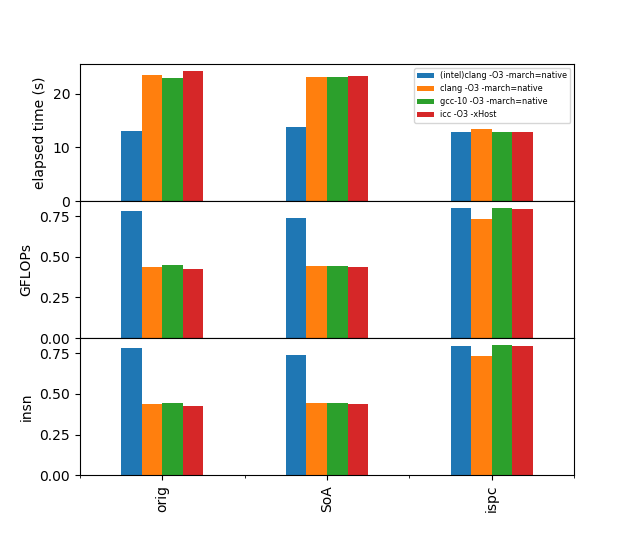
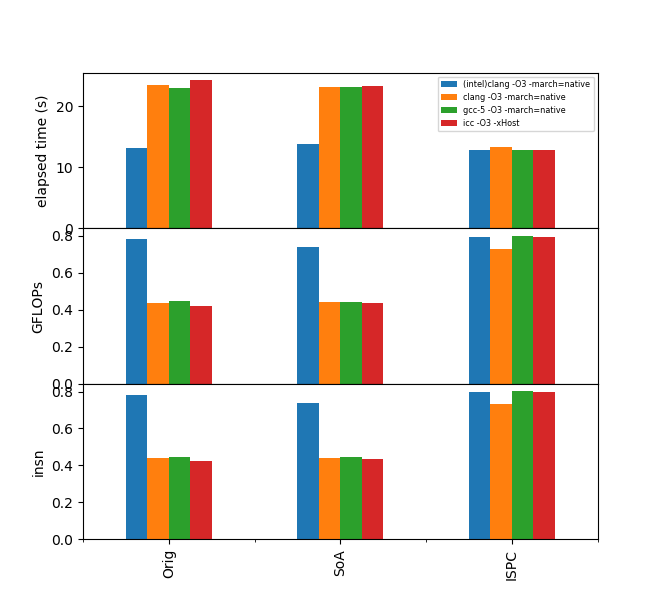
agregar tabla de resultados a markdown y correccion figura compiladores

diff --git a/informe/lab02/informe_lab2.md b/informe/lab02/informe_lab2.md
@@ -163,7 +163,23 @@ En la siguiente figura se muestran los resultados para las diferentes versiónes
 * `SoA` es la versión con estructura de arreglos
 * `ispc` es la versión con forces y minimum image implementadas en ISPC.
 ![compiladores](pictures/compiladores.png)
-Se observa el aumento del 70% para los compiladores clang, gcc y icc al utilizar la versión ISPC, en cambio para el compilador clang de intel los resultados son iguales para todas las versiones.
+Se observa el aumento del 50% para los compiladores clang, gcc y icc al utilizar la versión ISPC, en cambio para el compilador clang de intel los resultados son iguales para todas las versiones.
+
+|          | CFLAG                          | time  | GFLOPS | insn |
+|----------|--------------------------------|-------|--------|------|
+| Original | (intel)clang -O3 -march=native | 13.13 | 0.78   | 1.59 |
+|          | clang -O3 -march=native        | 23.45 | 0.44   | 1.02 |
+|          | gcc-5 -O3 -march=native        | 23.00 | 0.45   | 1.05 |
+|          | icc -O3 -xHost                 | 24.30 | 0.42   | 1.07 |
+| SoA      | (intel)clang -O3 -march=native | 13.83 | 0.74   | 1.71 |
+|          | clang -O3 -march=native        | 23.19 | 0.44   | 1.03 |
+|          | gcc-5 -O3 -march=native        | 23.12 | 0.44   | 1.04 |
+|          | icc -O3 -xHost                 | 23.36 | 0.44   | 1.02 |
+| ISPC     | (intel)clang -O3 -march=native | 12.86 | 0.80   | 1.28 |
+|          | clang -O3 -march=native        | 13.41 | 0.73   | 1.23 |
+|          | gcc-5 -O3 -march=native        | 12.88 | 0.80   | 1.28 |
+|          | icc -O3 -xHost                 | 12.8  | 0.79   | 1.28 |
+
 
 En la siguiente imagen se muestra la escalabilidad del problema, es decir el tiempo, los GFLOPS y el insn para diferentes tamaños de muestra N.
 ![varNispc](pictures/varNispc.png)
